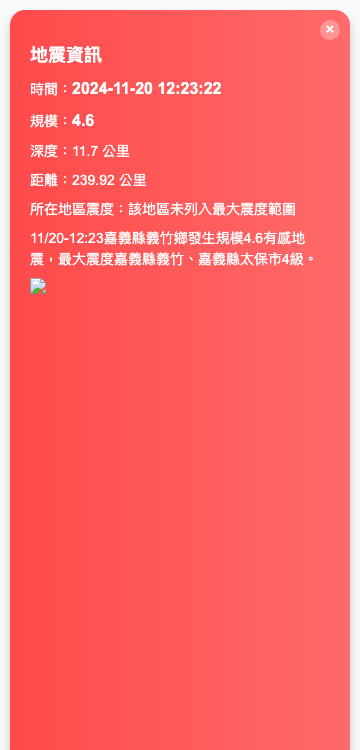
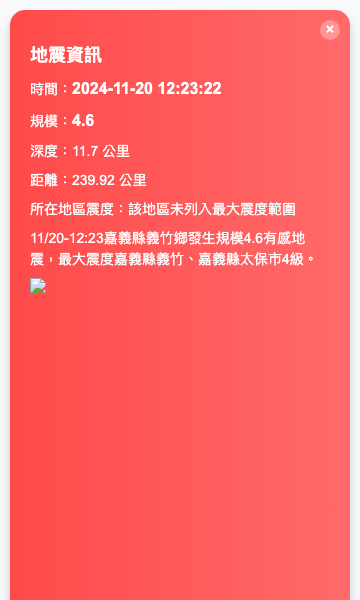
SomeFixHaven'tSolved

Changed region(s): [[0.0611, 0.06, 0.8556, 0.51], [0.0306, 0.0, 0.9778, 0.09]]

diff --git a/assest/temp/card.html b/assest/temp/card.html
@@ -72,7 +72,7 @@
         <p>距離：239.92 公里</p>
         <p>所在地區震度：該地區未列入最大震度範圍</p>
         <p>11/20-12:23嘉義縣義竹鄉發生規模4.6有感地震，最大震度嘉義縣義竹、嘉義縣太保市4級。</p>
-        <img src="/assest/earthQuakeBackground/earthquake_map_2024-11-20 12:23:22.png">
+        <img src="./earthQuakeBackground/earthquake_map_2024-11-20 12:23:22.png">
     </div>
     <!-- 可以多複製幾張卡片 -->
 </body>

diff --git a/dataHandler/methodPack.py b/dataHandler/methodPack.py
@@ -59,6 +59,7 @@ def haversine(lat1, lon1, lat2, lon2):
 
 
 def generate_earthquake_image(data,sid,image_path):
+    print(image_path)
     rendered_html = render_template(
         'card.html',
         time=data.get("時間"),
@@ -156,4 +157,4 @@ def OutPutEarthPicture(latitude,longitude,intensity,nowTime):
     if not os.path.exists("assest/earthQuakeBackground/"+output_path):
         cv2.imwrite(output_path, map_image)
         shutil.move(output_path,"assest/earthQuakeBackground/")
-        print(f"圖片已保存至：{"assest/earthQuakeBackground/"+output_path}")
+        print(f"圖片已保存至：{'assest/earthQuakeBackground/'+output_path}")

diff --git a/DisasterControl/DisasterControl.py b/DisasterControl/DisasterControl.py
@@ -65,7 +65,7 @@ def test():
     "所在地區震度": last_earthquake_data["nowLocationIntensity"],
     }
     OutPutEarthPicture(last_earthquake_data["latitude"],last_earthquake_data["longitude"],last_earthquake_data["intensity"],last_earthquake_data["time"])
-    generate_earthquake_image(result,sid,f'/assest/earthQuakeBackground/earthquake_map_{last_earthquake_data["time"]}.png')
+    generate_earthquake_image(result,sid,f'../earthQuakeBackground/earthquake_map_{last_earthquake_data["time"]}.png')
     return send_file(f'./assest/images/earthquake_card_{sid}.png', mimetype='image/png')
 
 

diff --git a/index.py b/index.py
@@ -14,4 +14,4 @@ app.register_blueprint(disasterControl_blueprint, url_prefix='/Disaster')
 register_socketio_events(socketio)
 
 if __name__ == '__main__':
-    socketio.run(app, host= "0.0.0.0", port=8082, debug=True, allow_unsafe_werkzeug=True,use_reloader=False)
+    socketio.run(app, host= "0.0.0.0", port=8080, debug=True, allow_unsafe_werkzeug=True,use_reloader=False)
